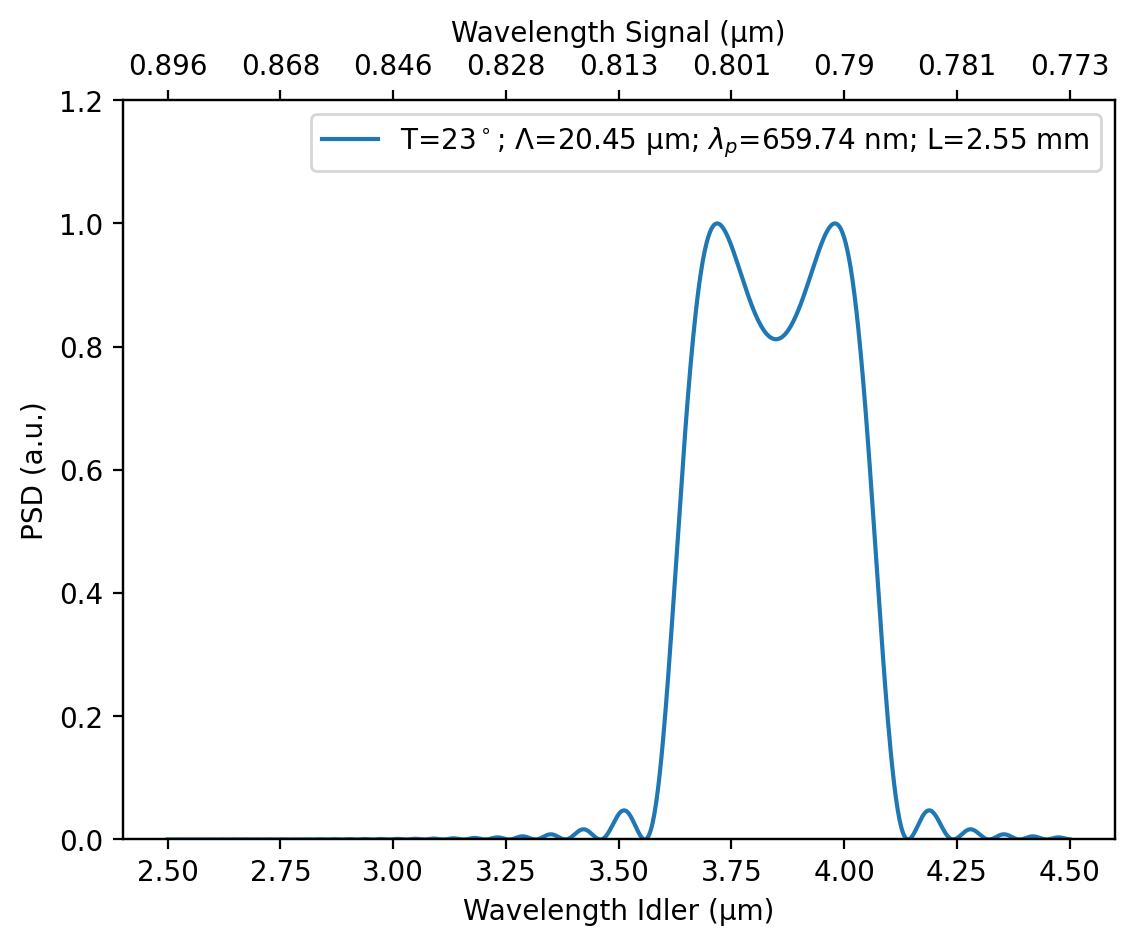
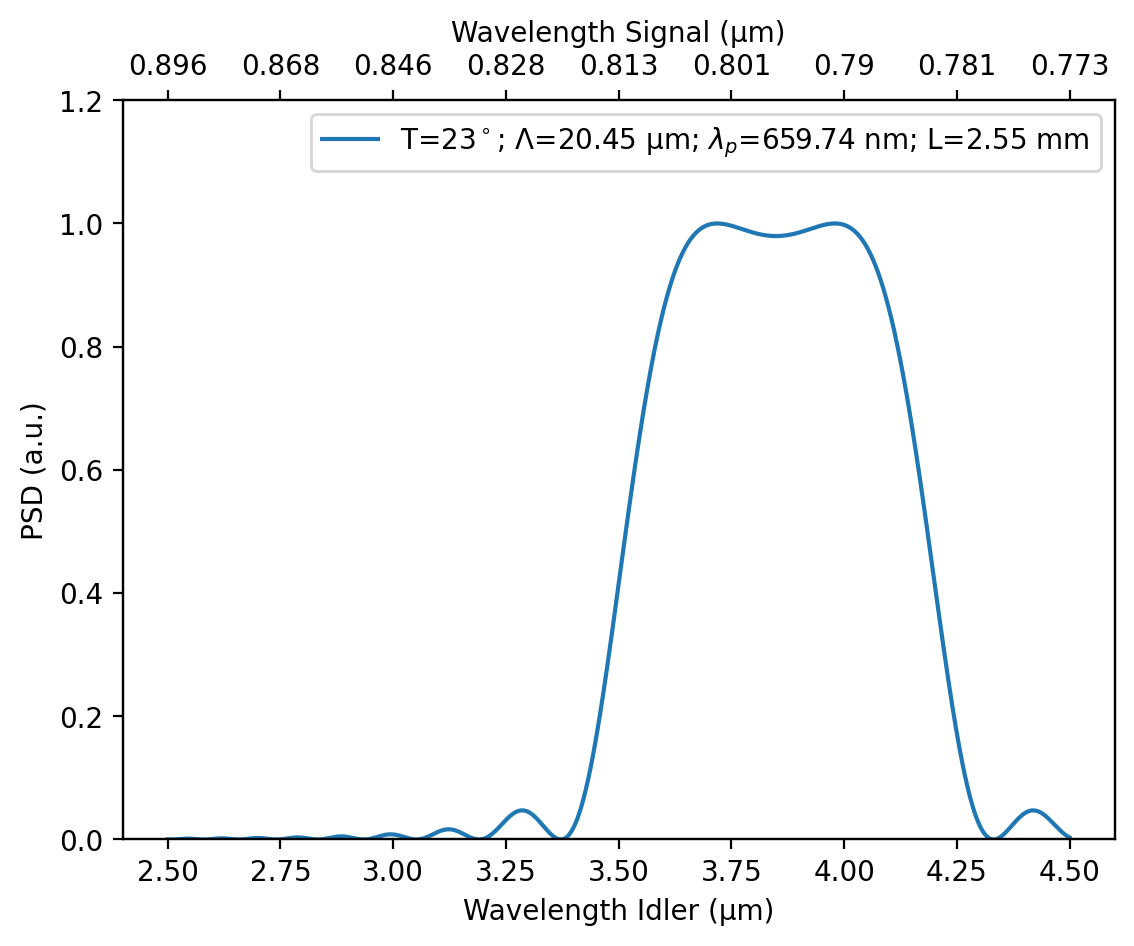
Fix due to wrong sinc() def

diff --git a/calculate_dispersion.py b/calculate_dispersion.py
@@ -1,0 +1,82 @@
+# -*- coding: utf-8 -*-
+"""
+Created on Wed Nov  8 11:40:43 2023
+
+@author: r.zor
+"""
+
+from spdc_source import SPDC_source as spdc
+from sellmeier_eqs import ref_ind_ktp_idl, ref_ind_ktp_si_pu
+import matplotlib.pyplot as plt
+import numpy as np
+
+# Define idler range
+lambda_i_min = 2.5  # um
+lambda_i_max = 4.5  # um
+
+# ppln = spdc(0.785, 3.5, lambda_i_min, lambda_i_max, ref_ind_ln, ref_ind_ln, crystal_length=5)
+# ppln.plot_PSD()
+# ppln.plot_ref_indices()
+# ppln.result()
+
+ppktp = spdc(
+    0.65974,
+    3.7,
+    lambda_i_min,
+    lambda_i_max,
+    ref_ind_ktp_idl,
+    ref_ind_ktp_si_pu,
+    crystal_length=2.55,
+    T=23)
+
+ppktp.plot_PSD_pp(pol_period=20.45)
+
+# calculate necessary units
+ni = ppktp.n_i
+ns = ppktp.n_s
+lam_i = ppktp.lambda_i
+lam_s = ppktp.lambda_s
+omega_i = ppktp.lambda_to_omega(lam_i)
+omega_s = ppktp.lambda_to_omega(lam_s)
+
+
+fig, ax = plt.subplots()
+ax.plot(lam_i, ni)
+ax.plot(lam_s, ns)
+
+
+# calculate group index
+
+ng_i = ni[:-1] + omega_i[:-1] * np.diff(ni) / np.diff(omega_i)
+ng_s = ns[:-1] + omega_s[:-1] * np.diff(ns) / np.diff(omega_s)
+
+fig, ax = plt.subplots()
+ax.plot(lam_i[:-1], ng_i)
+ax.plot(lam_s[:-1], ng_s)
+
+
+# delay = ng/c*length, length = 0.00255
+
+length = 0.00255
+del_i = ng_i / (3 * 1e8) * length
+del_s = ng_s / (3 * 1e8) * length
+
+# if negative --> signal has higher delay --> slower
+diff = (del_i - del_s) * 1e15
+
+fig, ax = plt.subplots()
+ax.plot(lam_s[400:900], diff[400:900])
+# ax.set_xlim(0.78,0.82)
+ax.set_xlabel('Wavelengths / nm')
+ax.set_ylabel('Delay / fs')
+
+
+# calculate group delay dispersion
+
+# gdd_i = np.diff(del_i)/np.diff(omega_i)
+gdd = np.diff((del_i - del_s)) / np.diff(omega_s[:-1]) * 1e30  # fs^2
+
+fig, ax = plt.subplots()
+ax.plot(lam_s[400:900], gdd[400:900])
+
+plt.show()

diff --git a/spdc_source.py b/spdc_source.py
@@ -60,8 +60,8 @@ class SPDC_source:
             dK = self.delta_k
         if ll is None:
             ll = self.ll
-        self.SPDC_PSD = np.sinc(
-            dK * ll / 2) ** 2  # Power spectral density
+        x = dK * ll / 2
+        self.SPDC_PSD = (np.sin(x) / x) ** 2
         return self.SPDC_PSD
 
     def plot_PSD(self):

diff --git a/example.py b/example.py
@@ -28,3 +28,15 @@ ppktp = spdc(
     T=23)
 
 ppktp.plot_PSD_pp(pol_period=20.45)
+
+
+ppktp2 = spdc(
+    0.65974,
+    3.7,
+    lambda_i_min,
+    lambda_i_max,
+    ref_ind_ktp_idl,
+    ref_ind_ktp_si_pu,
+    crystal_length=2.55,
+    T=25)
+ppktp2.plot_PSD_pp(pol_period=20.45)
